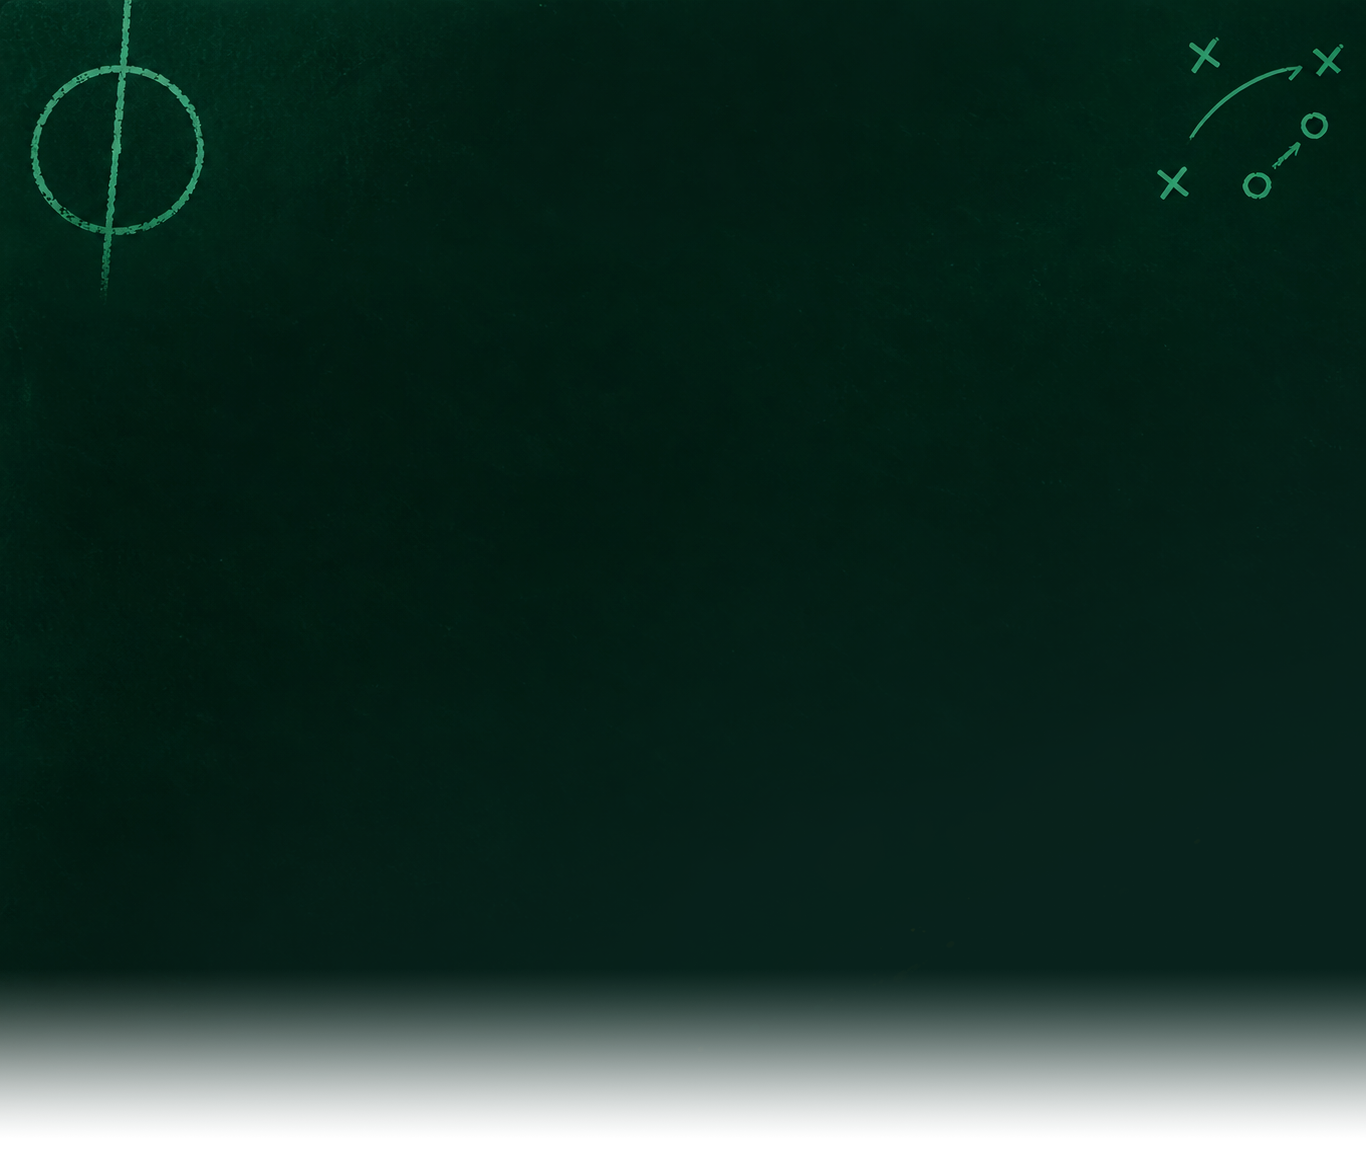
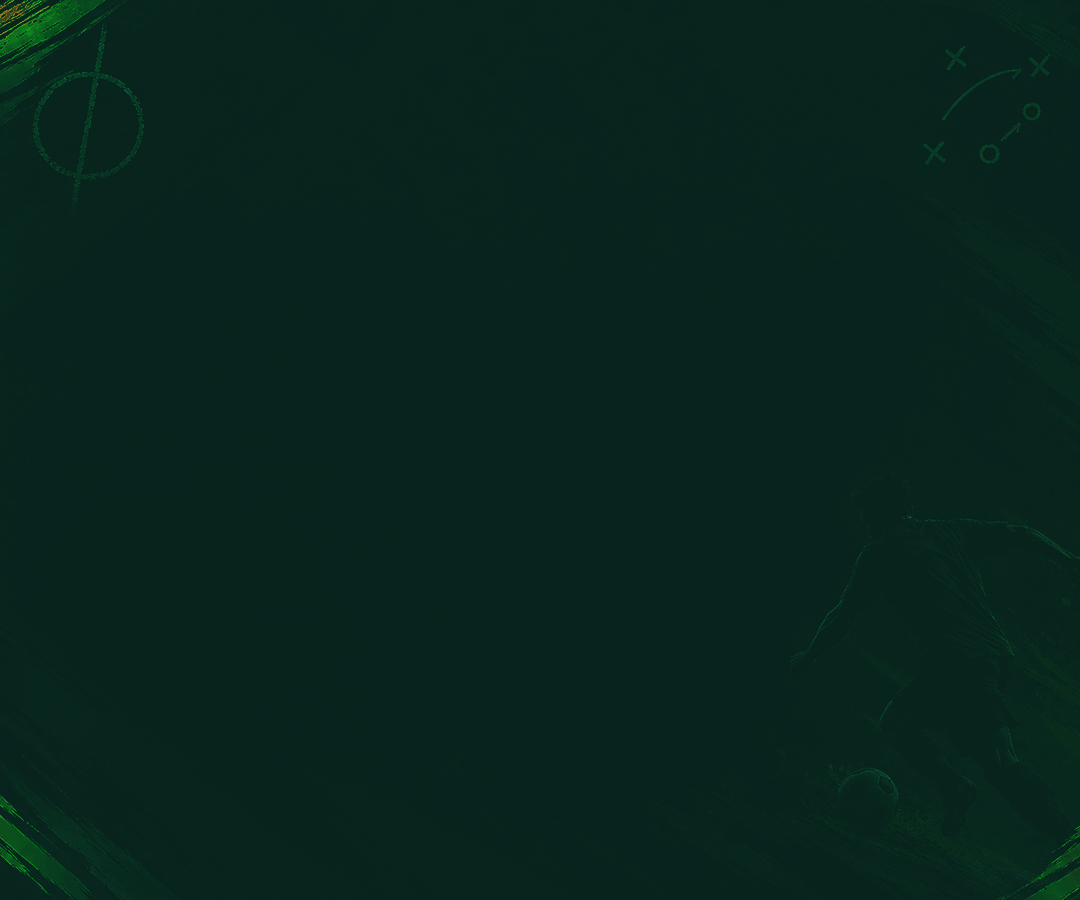
SCSS on PNG exporting

diff --git a/frontend/src/features/draft/steps/export/components/image.module.scss b/frontend/src/features/draft/steps/export/components/image.module.scss
@@ -4,18 +4,20 @@
   position: relative;
   border-radius: 12px;
   border: 1px solid rgba(244, 246, 239, 0.12);
+  background: url("../../../../../assets/illustrations/kora-export.png");
   background-color: var(--kora-ink);
-  background-position: top center;
+  background-position: right bottom;
   background-repeat: no-repeat;
-  background-size: 100% auto;
+  background-size: cover;
   box-shadow: 0 22px 44px rgba(0, 0, 0, 0.35);
   padding: var(--space-4);
   display: flex;
   flex-direction: column;
+  align-items: center;
   justify-content: space-around;
   gap: var(--space-4);
   overflow: hidden;
-  width: 1080px;
+  min-width: 600px;
   max-width: 100%;
   min-height: 600px;
 
@@ -33,8 +35,10 @@
     display: flex;
     flex-direction: column;
     align-items: center;
-    gap: 12px;
     text-align: center;
+    gap: var(--space-1);
+    opacity: 0.5;
+    margin-bottom: var(--space-4);
 
     & h2 {
       margin: 0;
@@ -45,6 +49,16 @@
       letter-spacing: 0.04em;
       color: #f4f6ef;
       text-shadow: 0 3px 12px rgba(0, 0, 0, 0.24);
+    }
+
+    & small {
+      display: flex;
+      align-items: center;
+      gap: var(--space-2);
+
+      & i {
+        font-size: 20px;
+      }
     }
   }
 
@@ -58,6 +72,7 @@
     display: grid;
     gap: var(--space-2);
     grid-template-columns: repeat(2, 1fr);
+    width: 100%;
   }
 
   &__team {
@@ -127,6 +142,8 @@
     display: flex;
     align-items: flex-end;
     justify-content: space-between;
+    gap: var(--space-4);
+    width: 100%;
   }
 
   &__credit {
@@ -152,17 +169,30 @@
     }
 
     & small {
-      color: rgba(244, 246, 239, 0.8);
+      color: var(--kora-chalk);
     }
   }
 
-  &__bibs {
-    position: absolute;
-    opacity: 0.1;
-    width: 50%;
-    height: auto;
-    z-index: 0;
-    bottom: 0;
-    right: 0;
+  &__qrs {
+    display: flex;
+  }
+
+  &__qr {
+    display: flex;
+    flex-direction: column;
+    align-items: center;
+    text-align: center;
+    gap: var(--space-2);
+    color: var(--kora-turf);
+
+    & img {
+      border-radius: 5px;
+      box-shadow: 0 5px 10px rgba(0, 0, 0, 0.5);
+      overflow: hidden;
+      height: 100px;
+      width: 100px;
+      border: 2px solid rgba(7, 159, 104, 0.55);
+      padding: var(--space-2);
+    }
   }
 }

diff --git a/frontend/src/features/draft/steps/export/components/image.tsx b/frontend/src/features/draft/steps/export/components/image.tsx
@@ -4,7 +4,7 @@ import type { DraftConfig } from "../../../draft.types";
 import styles from "./image.module.scss";
 import koraRosterLogo from "../../../../../assets/logo/kora-roster-logo.webp";
 import kRosterLogo from "/favicon.png";
-import koraBibs from "../../../../../assets/illustrations/kora-bibs.webp";
+import qrKoraRoster from "../../../../../assets/qrs/qr_kora_roster.png";
 
 interface ImageProps {
   config: DraftConfig;
@@ -18,6 +18,10 @@ export const Image = forwardRef<HTMLDivElement, ImageProps>(function Image({ con
     <div ref={ref} className={[styles.image, variant === "export" ? styles["image--export"] : ""].join(" ").trim()}>
       <div className={styles.image__header}>
         <img src={koraRosterLogo} alt="Kora" className={styles.image__logo} />
+        <small>
+          <i className="fa-regular fa-calendar"></i>
+          06 Sep 2025
+        </small>
       </div>
 
       <div className={styles.image__teams}>
@@ -55,6 +59,12 @@ export const Image = forwardRef<HTMLDivElement, ImageProps>(function Image({ con
             <FormattedMessage id="image.credit" />
             <strong>Kora</strong>
           </span>
+        </div>
+        <div className={styles.image__qrs}>
+          <div className={styles.image__qr}>
+            <small>Web</small>
+            <img src={qrKoraRoster} alt="QR Code Kora Roster Web" />
+          </div>
         </div>
       </div>
     </div>

diff --git a/frontend/src/features/draft/hooks/useDraftWizard.ts b/frontend/src/features/draft/hooks/useDraftWizard.ts
@@ -101,7 +101,7 @@ export function useDraftWizard() {
       return;
     }
     if (stateStep !== "welcome" && config.players.length === 0) {
-      navigate(".", { replace: true, state: { step: "setup" } });
+      navigate(".", { replace: true, state: { step: "welcome" } });
     }
   }, []);
 
